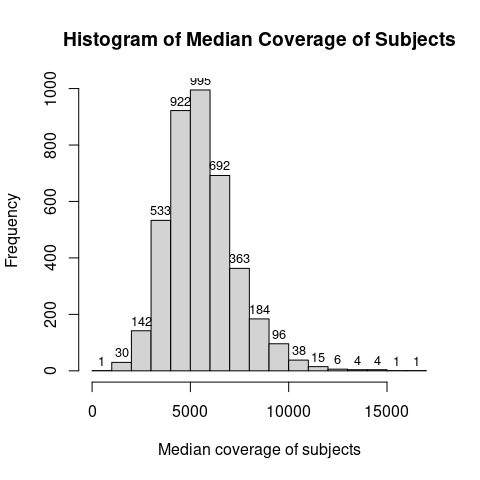
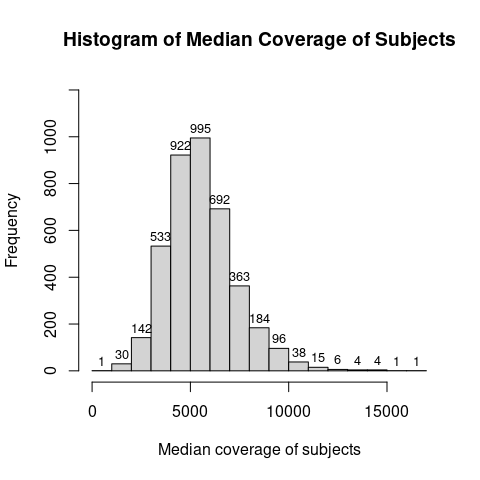
Small modification

diff --git a/README.md b/README.md
@@ -36,7 +36,7 @@ You can install the development version of mtAnalysis package from
 library(mtAnalysis)
 ```
 
-In addition, our package require the seqMeta package. The instructions
+In addition, our package requires the seqMeta package. The instructions
 for the installation of the seqMeta package can be found at
 <https://github.com/DavisBrian/seqMeta>
 
@@ -110,7 +110,7 @@ plotCover(coverage, type="mean")
 Histogram of the median coverage of each subject by histSampCov function
 
 ``` r
-histSampCov(coverage)
+histSampCov(coverage, ylim=c(0,1200))
 ```
 
 <img src="man/figures/README-histMeanCoverage-1.png" style="display: block; margin: auto;" />
